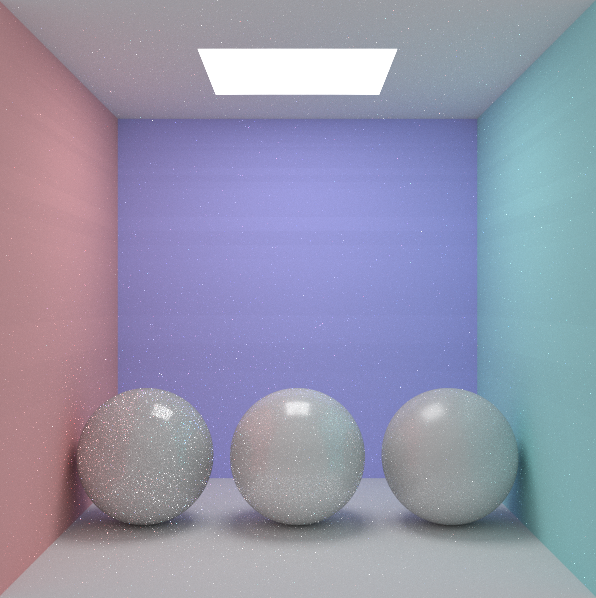
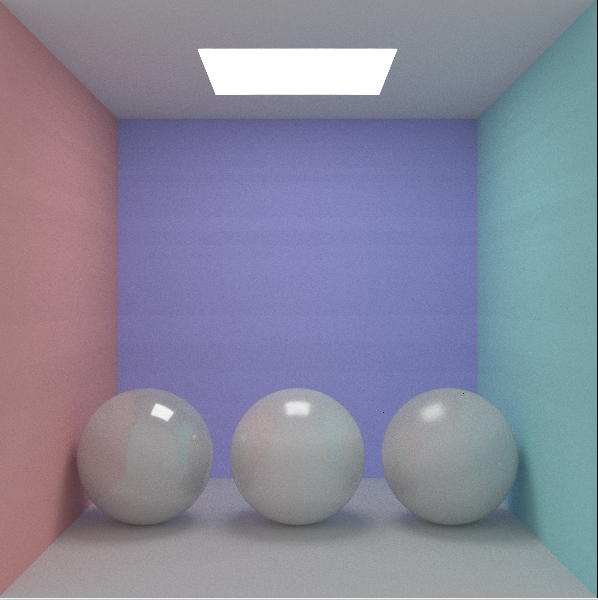
feat: importance sample

diff --git a/src/disney.cpp b/src/disney.cpp
@@ -66,19 +66,19 @@ int main()
 
     path_shader.setVec3("materials[4].baseColor", 0.5f, 0.5f, 1.0f);    // 紫色
 
-    path_shader.setVec3("materials[5].baseColor", 1.0f, 1.0f, 1.0f);    // 白色漫反射
-    path_shader.setFloat("materials[5].metallic", 0.2f);
+    path_shader.setVec3("materials[5].baseColor", 1.0f, 1.0f, 1.0f);
+    path_shader.setFloat("materials[5].metallic", 0.4f);
     path_shader.setFloat("materials[5].specular", 0.3f);
     path_shader.setFloat("materials[5].specularTint", 0.3f);
     path_shader.setFloat("materials[5].roughness", 0.1f);
 
-    path_shader.setVec3("materials[6].baseColor", 1.0f, 1.0f, 1.0f);    // 白色漫反射
+    path_shader.setVec3("materials[6].baseColor", 1.0f, 1.0f, 1.0f);
     path_shader.setFloat("materials[6].metallic", 0.2f);
     path_shader.setFloat("materials[6].specular", 1.0f);
     path_shader.setFloat("materials[6].specularTint", 0.5f);
     path_shader.setFloat("materials[6].roughness", 0.2f);
 
-    path_shader.setVec3("materials[7].baseColor", 1.0f, 1.0f, 1.0f);    // 白色漫反射
+    path_shader.setVec3("materials[7].baseColor", 1.0f, 1.0f, 1.0f);
     path_shader.setFloat("materials[7].metallic", 0.2f);
     path_shader.setFloat("materials[7].specular", 0.5f);
     path_shader.setFloat("materials[7].specularTint", 0.5f);
